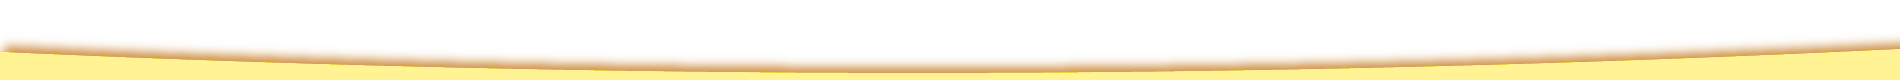
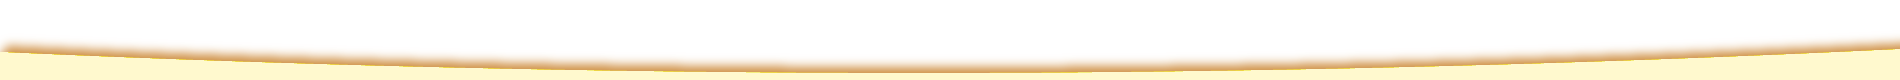
update

Changed region(s): [[0.0, 0.6, 1.0, 1.0]]

diff --git a/src/pages/komunikacija-splosna.js b/src/pages/komunikacija-splosna.js
@@ -4,7 +4,7 @@ import Layout from "../components/layout"
 const KomunikacijaSplosna = () => (
   <Layout>
     <div className="komunikacija-content">
-      <div className="komunikacija-title">Komunikacija s prijatelji, sošolci ali na sploh</div>
+      <div className="komunikacija-title">Komunikacija s sorodniki, prijatelji, sošolci ali na sploh</div>
       <div className="komunikacija-item kom-img">
         <div className="komunikacija-text">
           Verjetno se vam je že pripetilo, da ste nekomu poskušali nekaj dopovedati, pa enostavno ni »štekal«. Ali pa, da ste še z nekom doživela isto stvar, videla isti dogodek, osebo ipd. pa sta jo vsak po svoje doživela in opisala. To je nekaj čisto običajnega. Ljudje smo si različni (hvala bogu <img className="emoji-img" src="../icons/smile.png" width="30px" alt="" />) z različnimi prioritetami, zaznavanji, občutki…To pomeni, da je za nekoga sončni zahod WOW, za drugega pa NIČ POSEBNEGA.

diff --git a/src/pages/predavanja.js b/src/pages/predavanja.js
@@ -38,7 +38,7 @@ const Predavanja = () => (
 
       <br />
         <br />
-      Na predavanju  pogledamo, zakaj so odnosi dragocenejša od denarja, kaj inspirira Diamantno pravilo in katera so tista ključna vprašanja, da osvojiš <i>Diamantni dotik</i>.
+      Na predavanju  pogledamo, zakaj so odnosi <strong>dragocenejši</strong> od denarja, kaj inspirira Diamantno pravilo in katera so tista ključna vprašanja, da osvojiš <i>Diamantni dotik</i>.
 
       <br />
         <br />

diff --git a/src/css/mainMenu.scss b/src/css/mainMenu.scss
@@ -194,6 +194,7 @@ a:hover {
     background-color: #fff394;
     /* border-bottom: 1px solid #dfdedd;
     border-top: 1px solid #dfdedd; */
+    background: linear-gradient(to bottom, #fff9ce, #fff6d6, #ffe2aa);
 }
 
 .main-menu-submenu {
